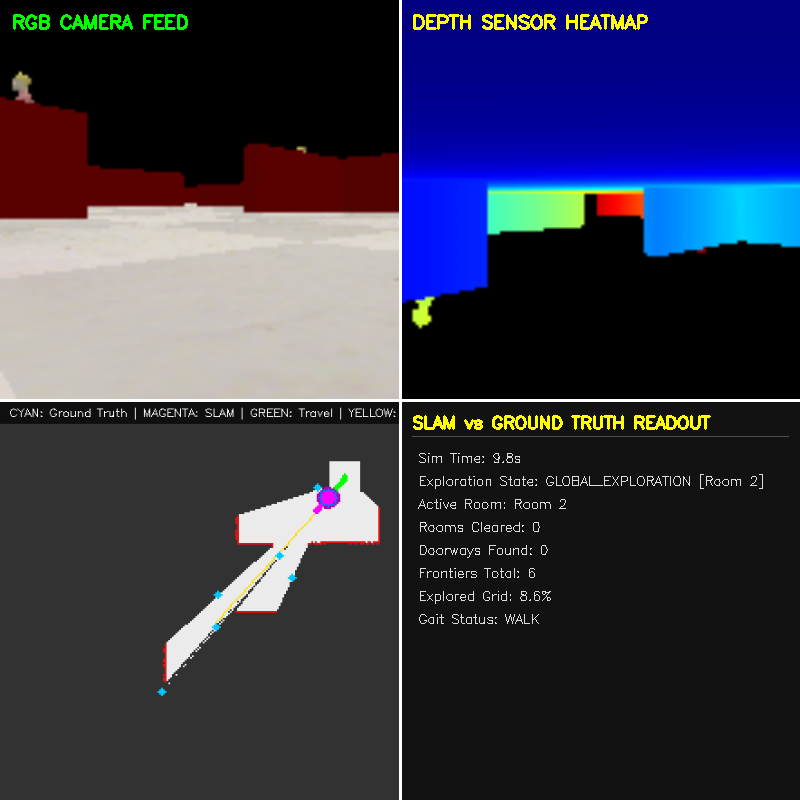
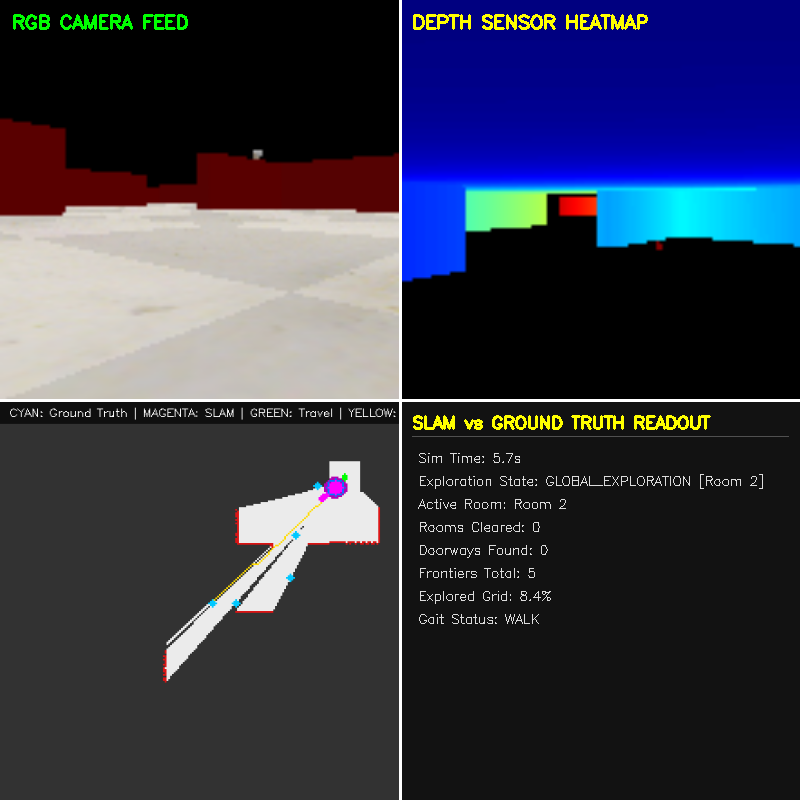
fix(locomotion): eliminate pivot freezing, resolve mutual recursion in ICP, and add unreachable target blacklisting

diff --git a/agents/locomotion_agent.py b/agents/locomotion_agent.py
@@ -41,7 +41,11 @@ class LocomotionAgent(BaseAgent):
             target_wx, target_wy = self.waypoints[self.wp_idx]
             dist_to_wp = math.hypot(target_wx - rx, target_wy - ry)
 
-            if dist_to_wp < self.wp_radius:
+            # Lookahead advance: advance if reached waypoint or already closer to the next waypoint
+            if dist_to_wp < self.wp_radius or (
+                self.wp_idx < len(self.waypoints) - 1 and
+                math.hypot(self.waypoints[self.wp_idx + 1][0] - rx, self.waypoints[self.wp_idx + 1][1] - ry) < dist_to_wp
+            ):
                 self.wp_idx += 1
                 if self.wp_idx >= len(self.waypoints):
                     self.speed = 0.0
@@ -55,12 +59,16 @@ class LocomotionAgent(BaseAgent):
                 target_heading = math.atan2(target_wy - ry, target_wx - rx)
                 heading_err = norm_angle(target_heading - r_yaw)
 
-                # Heading steering logic
-                if abs(heading_err) > 0.45:
-                    self.speed = 0.0  # Pivot turn in place
-                    self.state_str = "PIVOT"
+                # Continuous speed modulation: NEVER stop at 0.0 speed during turns
+                abs_err = abs(heading_err)
+                if abs_err > 0.45:
+                    self.speed = 0.45  # Continuous turn-while-walking
+                    self.state_str = "TURN"
+                elif abs_err > 0.20:
+                    self.speed = 0.75  # Arc turn
+                    self.state_str = "WALK"
                 else:
-                    self.speed = 1.0  # Walk forward
+                    self.speed = 1.0   # Full forward walk
                     self.state_str = "WALK"
 
                 if self.robot is not None:
@@ -79,7 +87,7 @@ class LocomotionAgent(BaseAgent):
                     state_str=self.state_str
                 ))
         else:
-            self.speed = 0.25
+            self.speed = 0.35
             self.state_str = "SCAN"
             if self.robot is not None:
                 try:

diff --git a/agents/planning_agent.py b/agents/planning_agent.py
@@ -3,7 +3,7 @@ import time
 import math
 from typing import List, Tuple, Optional
 from .base import BaseAgent
-from .bus import MessageBus, PathMsg, FrontierTargetMsg, PoseMsg, GridMapMsg
+from .bus import MessageBus, PathMsg, FrontierTargetMsg, PoseMsg, GridMapMsg, MissionEventMsg
 from planner import a_star_search, smooth_path
 from grid import find_nearest_free, ROBOT_RADIUS
 
@@ -54,6 +54,14 @@ class PlanningAgent(BaseAgent):
         # a_star_search takes (grid, (start_gx, start_gy), (goal_gx, goal_gy)) and returns world waypoints [(x, y), ...]
         world_path = a_star_search(self.grid, (start_gx, start_gy), (goal_gx, goal_gy), smooth=False)
         if not world_path:
+            self.bus.publish("mission/event", MissionEventMsg(
+                timestamp=current_time,
+                event_type="PATH_UNREACHABLE",
+                details={
+                    "target_gx": self.latest_target.target_gx,
+                    "target_gy": self.latest_target.target_gy
+                }
+            ))
             return None
 
         # Line-of-sight shortcut smoothing on world coordinates

diff --git a/agents/frontier_agent.py b/agents/frontier_agent.py
@@ -27,8 +27,18 @@ class FrontierAgent(BaseAgent):
     def initialize(self) -> bool:
         self.bus.subscribe("pose/state", self.on_pose)
         self.bus.subscribe("map/grid", self.on_grid)
+        self.bus.subscribe("mission/event", self.on_mission_event)
         self.is_running = True
         return True
+
+    def on_mission_event(self, event_msg: MissionEventMsg):
+        if event_msg.event_type == "PATH_UNREACHABLE":
+            tgx = event_msg.details.get("target_gx")
+            tgy = event_msg.details.get("target_gy")
+            if tgx is not None and tgy is not None:
+                self.blacklist_frontiers.add((tgx, tgy))
+                if len(self.blacklist_frontiers) > 30:
+                    self.blacklist_frontiers.clear()
 
     def on_pose(self, pose_msg: PoseMsg):
         self.latest_pose = pose_msg

diff --git a/slam.py b/slam.py
@@ -123,7 +123,8 @@ def icp_point_to_line(source: np.ndarray, target: np.ndarray, target_normals: Op
             # Fall back to SVD point-to-point if too few valid correspondences
             return icp_match(source, target, initial_guess=initial_guess,
                              max_correspondence_distance=max_correspondence_distance,
-                             min_correspondences=min_correspondences)
+                             min_correspondences=min_correspondences,
+                             mode="point_to_point")
 
         p = aligned[valid]
         q = target[indices[valid]]

diff --git a/agents/base.py b/agents/base.py
@@ -1,4 +1,4 @@
-"""Base Agent class for robotic multi-agent subsystems."""
+"""Base Agent class for robotic multi-agent subsystems."""
 from abc import ABC, abstractmethod
 import time
 import threading
@@ -35,3 +35,5 @@ class BaseAgent(ABC):
         """Fault isolation and error reporting."""
         self.error_count += 1
         print(f"[Agent {self.name} ERROR #{self.error_count}] {err}")
+        import traceback
+        traceback.print_exc()

diff --git a/accuracy_results/mission_timeline.md b/accuracy_results/mission_timeline.md
@@ -2,4 +2,4 @@
 
 | Sim Time | Event Type | Description | Location |
 | :--- | :--- | :--- | :--- |
-| **1.0s** | ROOM_ENTERED | ROOM_ENTERED: {'room_id': 2} | (4.01, 3.95) |
+| **1.0s** | ROOM_ENTERED | ROOM_ENTERED: {'room_id': 2} | (4.01, 3.96) |
